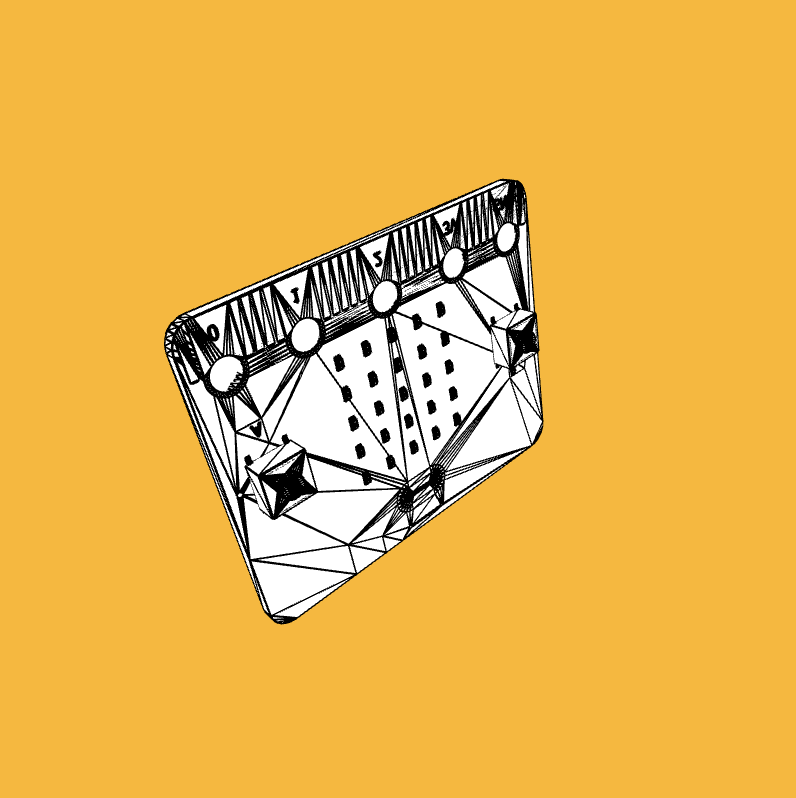
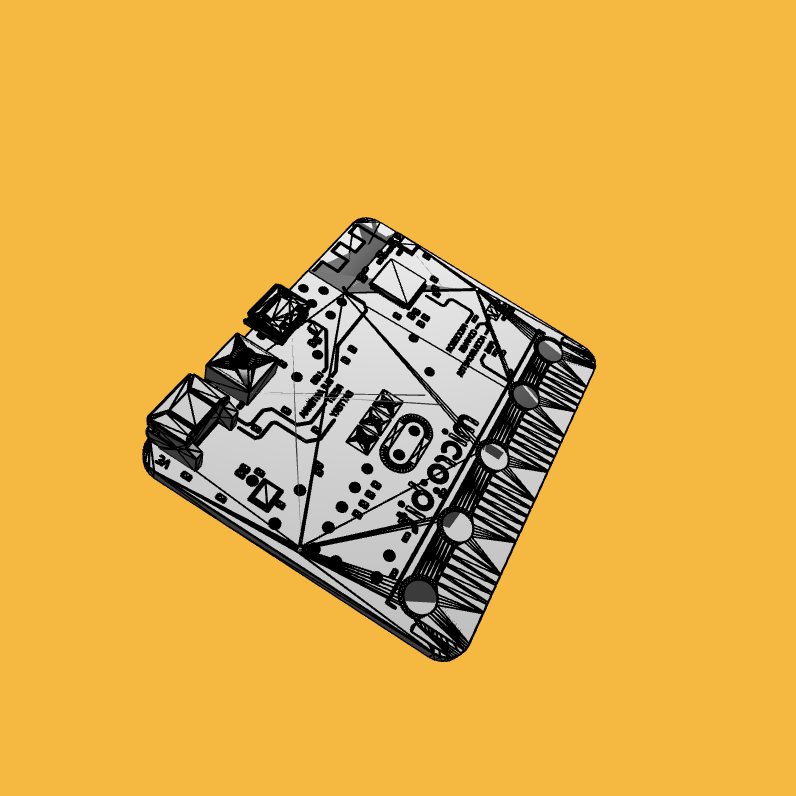
add light to model

Changed region(s): [[0.1809, 0.2111, 0.7538, 0.8442]]

diff --git a/03d_basic_3d_obj/sketch.js b/03d_basic_3d_obj/sketch.js
@@ -14,6 +14,13 @@ function setup() {
 function draw() {
 	background(255, 182, 0);
 	orbitControl();
+	let mX = mouseX - height / 2;
+	let mY = mouseY - width / 2;
+
+	ambientLight(60, 60, 60);
+	pointLight(255, 255, 255, mX, mY, 100);
+
+	ambientMaterial(250);
 	rotateX(radians(-45));
 	rotateY(radians(-45));
 	model(microbit);
